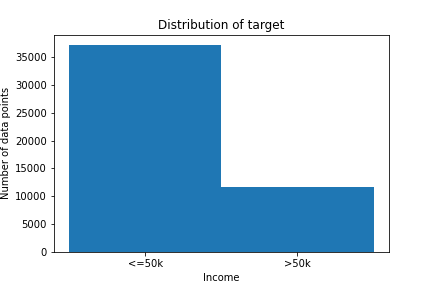
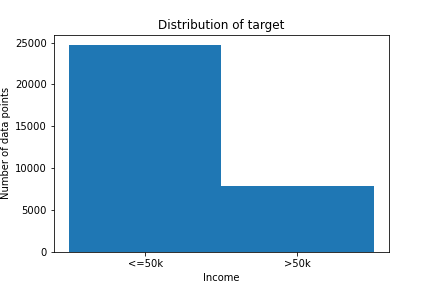
Changed some files.

diff --git a/functions.py b/functions.py
@@ -65,5 +65,5 @@ matthews_corrcoef:""")
 
     # Plotting confusion matrix
     plot_confusion_matrix(forest_fitted, X_test, y_test, values_format = '.0f')
-    plt.title(f"Confusion matrix on {model_title}")
+    plt.title(f"Confusion matrix on {confusion_matrix_title}")
     plt.show()

diff --git a/README.md b/README.md
@@ -94,12 +94,11 @@ No noticeable improvements, but hasn't gotten noticeably worse either.
 ### 5. Modeling a balanced dataset.
 What I'm noticing is that the model is always having problems predicting "1".   
 The dataset is also very unbalanced, meaning a lot more datapoints with target "0".  
-This shows the distribution on the data, containing 48842 rows:
+This shows the distribution on the data:
 
 ![](Visuals/Distribution_classes.png)
 
 By copying the rows that have as target "1", I can obtain a much more balanced dataset.  
-The result is I now have a dataset with 72216 rows, but almost evenly distributed:
 
 ![](Visuals/Even_distribution_classes.png)
 
@@ -107,15 +106,13 @@ The result is I now have a dataset with 72216 rows, but almost evenly distribute
 | Metric                            | Score  |
 |-----------------------------------|--------|
 | Score on training set             | 0.999  |
-| Score on testing set              | 0.933  |
-| cross_validation_score - Accuracy | 91.85% |
-| Matthews correlation coefficient  | 0.872  |
+| Score on testing set              | 0.843  |
+| cross_validation_score - Accuracy | 91.83% |
+| Matthews correlation coefficient  | 0.583  |
 
-![](Visuals/Confusion%20matrix%20-%20evenly%20distributed%20classes.png)
+![](Visuals/Confusion%20matrix%20-%20evenly_distributed_train.png)
 
-Balancing the dataset out, helped a lot!  
-All scores increased by a significant amount.  
-This also finally improved the predicting of target "1".
+Not much improvement, using oversampling.
 
 
 # Contributors
